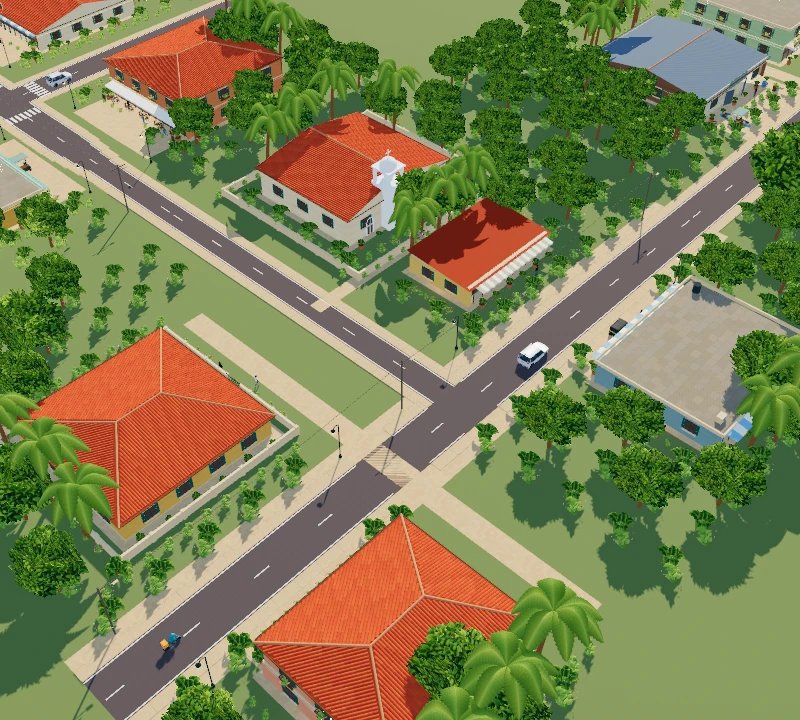
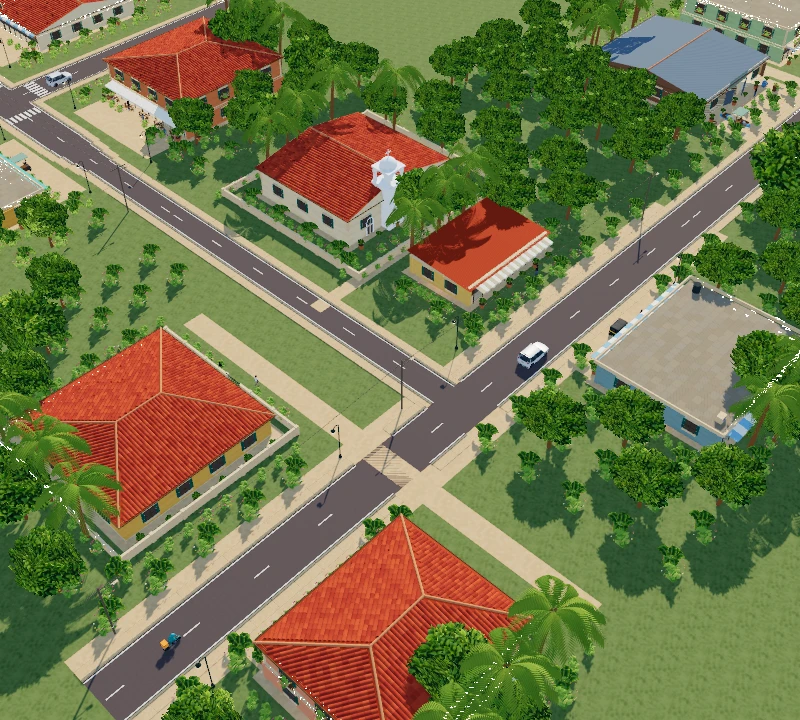
Refine Phase 1 graphics, foliage, materials and screen-space shading

diff --git a/src/scenes.js b/src/scenes.js
@@ -23,6 +23,10 @@ export function createSceneArt(renderer,skyTexture) {
   let seed=127;const rand=()=>{let t=seed+=0x6D2B79F5;t=Math.imul(t^t>>>15,t|1);t^=t+Math.imul(t^t>>>7,t|61);return((t^t>>>14)>>>0)/4294967296};
   for(let i=0;i<42000;i++){ctx.fillStyle=rand()>.5?(kind==='plaster'?'#ffffff04':'#ffffff12'):(kind==='plaster'?'#00000003':'#00000015');ctx.fillRect(rand()*512,rand()*512,.5+rand(),.5+rand())}
   if(kind==='plaster'){for(let i=0;i<45;i++){const x=rand()*512,y=rand()*512,r=12+rand()*56,g=ctx.createRadialGradient(x,y,0,x,y,r);g.addColorStop(0,'#9576490a');g.addColorStop(1,'#95764900');ctx.fillStyle=g;ctx.fillRect(x-r,y-r,r*2,r*2);}}
+  if(kind==='grass'){
+   for(let i=0;i<250;i++){const x=rand()*512,y=rand()*512,r=8+rand()*40,g=ctx.createRadialGradient(x,y,0,x,y,r);g.addColorStop(0,i%3?'#496b3530':'#dac38738');g.addColorStop(1,'#496b3500');ctx.fillStyle=g;ctx.fillRect(x-r,y-r,r*2,r*2);}
+   for(let i=0;i<18000;i++){const x=rand()*512,y=rand()*512;ctx.strokeStyle=i%3?'#456f3426':'#e2db9c38';ctx.beginPath();ctx.moveTo(x,y);ctx.lineTo(x+rand()*2-1,y-2-rand()*3);ctx.stroke();}
+  }
   if(kind==='tile'||kind==='stone'||kind==='paving'){
    const step=kind==='tile'?32:64;ctx.strokeStyle=kind==='tile'?'#56231865':'#785f4c55';ctx.lineWidth=kind==='tile'?2:1;
    for(let y=0;y<512;y+=step){ctx.beginPath();ctx.moveTo(0,y);ctx.lineTo(512,y);ctx.stroke();for(let x=(y/step%2)*step/2;x<512;x+=step){ctx.beginPath();ctx.moveTo(x,y);ctx.lineTo(x,y+step);ctx.stroke();}}
@@ -58,7 +62,7 @@ export function createSceneArt(renderer,skyTexture) {
   let current,origin;
   const vec=p=>new THREE.Vector3(...worldPoint(p,origin));
   function mesh(g,m,p=[0,0,0],rotation=[0,0,0],parent=root){const o=new THREE.Mesh(g,m);o.position.copy(vec(p));o.rotation.set(...rotation);o.castShadow=!m.transparent;o.receiveShadow=true;parent.add(o);return o;}
-  function box(w,d,h,m,p,rotation=0){return mesh(geometry(`box:${w}:${d}:${h}`,()=>w<=2&&d<=2&&h<=2&&Math.min(w,d,h)>.07?new RoundedBoxGeometry(w,h,d,2,Math.min(.025,w*.05,h*.08,d*.05)):new THREE.BoxGeometry(w,h,d)),m,p,[0,rotation,0]);}
+  function box(w,d,h,m,p,rotation=0){return mesh(geometry(`box:${w}:${d}:${h}`,()=>Math.min(w,d,h)>.07?new RoundedBoxGeometry(w,h,d,2,Math.min(.045,w*.05,h*.08,d*.05)):new THREE.BoxGeometry(w,h,d)),m,p,[0,rotation,0]);}
   function beam(a,b,r,m=wood){const aa=vec(a),bb=vec(b),delta=bb.clone().sub(aa);const o=new THREE.Mesh(geometry(`cyl:${r}:${delta.length().toFixed(3)}`,()=>new THREE.CylinderGeometry(r,r,delta.length(),7)),m);o.position.copy(aa.add(bb).multiplyScalar(.5));o.quaternion.setFromUnitVectors(new THREE.Vector3(0,1,0),delta.normalize());o.castShadow=o.receiveShadow=true;root.add(o);return o;}
   function poly(points,m){const g=new THREE.BufferGeometry(),positions=points.map(p=>worldPoint(p,origin)).flat(),normal=new THREE.Vector3(...points[1]).sub(new THREE.Vector3(...points[0])).cross(new THREE.Vector3(...points[2]).sub(new THREE.Vector3(...points[0]))),vertical=Math.abs(normal.z)<Math.max(Math.abs(normal.x),Math.abs(normal.y)),uvScale=m.userData.kind==='paving'?6:3,uv=points.flatMap(p=>vertical?[p[Math.abs(normal.x)>Math.abs(normal.y)?1:0]/uvScale,p[2]/uvScale]:[p[0]/uvScale,p[1]/uvScale]);g.setAttribute('position',new THREE.Float32BufferAttribute(positions,3));g.setAttribute('uv',new THREE.Float32BufferAttribute(uv,2));const idx=[];for(let i=1;i<points.length-1;i++)idx.push(0,i,i+1);g.setIndex(idx);g.computeVertexNormals();const o=new THREE.Mesh(g,m);o.castShadow=!points.every(p=>p[2]===points[0][2]);o.receiveShadow=true;root.add(o);return o;}
   function rect(r,m,z=.01){if(phase===1&&r[3]-r[1]>12){let result;for(let y=r[1];y<r[3];y+=8)result=poly([[r[0],y,z],[r[2],y,z],[r[2],Math.min(y+8,r[3]),z],[r[0],Math.min(y+8,r[3]),z]],m);return result;}return poly([[r[0],r[1],z],[r[2],r[1],z],[r[2],r[3],z],[r[0],r[3],z]],m);}
@@ -99,9 +103,10 @@ export function createSceneArt(renderer,skyTexture) {
    const world=points.map(vec),base=world[0],u=world[1].clone().sub(base).normalize(),normal=world[1].clone().sub(base).cross(world[2].clone().sub(base)).normalize();if(normal.y<0)normal.negate();if(normal.y<.15)return;
    const v=u.clone().cross(normal).normalize(),outline=world.map(p=>{const q=p.clone().sub(base);return[q.dot(u),q.dot(v)]}),r=bounds(outline),tiles=[];
    function contained(x,y){let found=false;for(let i=0,j=outline.length-1;i<outline.length;j=i++){const a=outline[i],b=outline[j];if((a[1]>y)!==(b[1]>y)&&x<(b[0]-a[0])*(y-a[1])/(b[1]-a[1])+a[0])found=!found}return found;}
-   for(let x=r[0]+.15;x<r[2]-.14;x+=.31)for(let y=r[1];y<r[3]-.21;y+=.43)if(contained(x-.13,y+.04)&&contained(x+.13,y+.43)&&contained(x+.13,y+.04)&&contained(x-.13,y+.43))tiles.push(base.clone().addScaledVector(u,x).addScaledVector(v,y).addScaledVector(normal,.014));
+   const tileScale=phase===1?1.35:1;
+   for(let x=r[0]+.15*tileScale;x<r[2]-.14*tileScale;x+=.31*tileScale)for(let y=r[1];y<r[3]-.21*tileScale;y+=.43*tileScale)if(contained(x-.13*tileScale,y+.04)&&contained(x+.13*tileScale,y+.43*tileScale)&&contained(x+.13*tileScale,y+.04)&&contained(x-.13*tileScale,y+.43*tileScale))tiles.push(base.clone().addScaledVector(u,x).addScaledVector(v,y).addScaledVector(normal,.014));
    const g=geometry('barrelTile',()=>{const g=new THREE.BufferGeometry(),p=[],uv=[],idx=[];for(let row=0;row<4;row++)for(let i=0;i<=8;i++){const t=i/8*Math.PI;p.push((i/8-.5)*.32,Math.sin(t)*.075+(row===3?.028:row===2?.008:0),[0,.22,.445,.465][row]);uv.push(i/8,row/3)}for(let row=0;row<3;row++)for(let i=0;i<8;i++){const j=row*9+i;idx.push(j,j+9,j+1,j+1,j+9,j+10)}g.setAttribute('position',new THREE.Float32BufferAttribute(p,3));g.setAttribute('uv',new THREE.Float32BufferAttribute(uv,2));g.setIndex(idx);g.computeVertexNormals();return g;});
-   const inst=new THREE.InstancedMesh(g,mat('#ffffff'),tiles.length),rotation=new THREE.Quaternion().setFromRotationMatrix(new THREE.Matrix4().makeBasis(u,normal,v)),matrix=new THREE.Matrix4();tiles.forEach((p,i)=>{matrix.compose(p,rotation,new THREE.Vector3(1,1,1));inst.setMatrixAt(i,matrix);inst.setColorAt(i,new THREE.Color().setHSL(.035+(i%7)*.0015,.70,.47+(i%11)*.004,THREE.SRGBColorSpace));});inst.castShadow=inst.receiveShadow=true;root.add(inst);
+   const inst=new THREE.InstancedMesh(g,mat('#ffffff'),tiles.length),rotation=new THREE.Quaternion().setFromRotationMatrix(new THREE.Matrix4().makeBasis(u,normal,v)),matrix=new THREE.Matrix4();tiles.forEach((p,i)=>{matrix.compose(p,rotation,new THREE.Vector3(tileScale,tileScale,tileScale));inst.setMatrixAt(i,matrix);const variation=Math.sin(i*127.1+points[0][0]*31.7)*43758.5453,f=variation-Math.floor(variation);inst.setColorAt(i,new THREE.Color().setHSL(.027+f*.012,.65,.40+f*.085,THREE.SRGBColorSpace));});inst.castShadow=inst.receiveShadow=true;root.add(inst);
   }
   function cafeFurniture(x,y){
    box(.9,.72,.085,wood,[x,y,.78]);for(const dx of[-.36,.36])for(const dy of[-.26,.26])beam([x+dx,y+dy,.05],[x+dx,y+dy,.76],.033,wood);
@@ -147,6 +152,10 @@ export function createSceneArt(renderer,skyTexture) {
    }
    if(/lilac/.test(b.walls))for(const dir of ['east','west','north','south'])if(!openDirs.includes(dir)){const f=facade(dir);box(f.length,.25,shopTop,mat(palettes.teal,'plaster'),f.place(0,shopTop/2,.02),f.angle);}
    box(w+.15,d+.15,.18,concrete,[cx,cy,.09]);for(let i=1;i<=b.floors;i++)box(w+.25,d+.25,.12,concrete,[cx,cy,e*i/b.floors]);
+   if(phase===1){
+    box(w+.38,d+.38,.16,concrete,[cx,cy,e-.16]);box(w+.5,d+.5,.09,concrete,[cx,cy,e-.04]);
+    for(const x of[x0+.1,x1-.1])for(const y of[y0+.1,y1-.1])box(.3,.3,Math.max(.2,e-shopTop),concrete,[x,y,shopTop+Math.max(.2,e-shopTop)/2]);
+   }
    roof(b);if(current.key==='p1-scene_04'&&b.id==='B_BAKERY'){box(.8,.14,1.05,concrete,[x0-.05,cy,5],-Math.PI/2);box(.59,.16,.86,darkWood,[x0-.14,cy,5],-Math.PI/2);box(.43,.02,.68,glass,[x0-.24,cy,5],-Math.PI/2);}
    if(b.id==='B_CAFE'){box(w+.25,d+.25,.16,concrete,[cx,cy,waterfrontCafe?3.2:2.65]);box(w+.18,d+.18,.09,concrete,[cx,cy,waterfrontCafe?3.4:2.85]);}
    const faces=[['east',x1,cy,d,-Math.PI/2],['west',x0,cy,d,Math.PI/2],['north',cx,y1,w,0],['south',cx,y0,w,Math.PI]];
@@ -163,7 +172,8 @@ export function createSceneArt(renderer,skyTexture) {
      box(.07,.06,1.4,mat('#594532'),place(along,z,.24),angle);box(ww,.06,.06,mat('#594532'),place(along,z,.24),angle);
      if(phase===1)for(const side of [-1,1]){box(.36,.09,1.5,mat('#39765c'),place(along+side*(ww/2+.2),z,.12),angle);for(let slat=0;slat<18;slat++)box(.35,.1,.04,mat('#315e4d'),place(along+side*(ww/2+.2),z-.66+slat*.075,.15),angle);}
      box(ww+.4,.35,.12,concrete,place(along,z-.85,.14),angle);trim.name='Window surround';
-     if(phase===1&&b.awning&&floor===1){box(ww+.4,.4,.24,wood,place(along,z-.87,.3),angle);const p=place(along,z-.78,.42);shrub(p[0],p[1],.7,true,p[2]);}
+     if(phase===1){box(ww+.5,.3,.12,concrete,place(along,z+.94,.1),angle);for(const side of[-1,1])box(.12,.28,.22,concrete,place(along+side*(ww/2+.1),z-.95,.1),angle);}
+     if(phase===1&&b.awning&&floor===1){box(ww+.4,.4,.24,wood,place(along,z-.87,.3),angle);const p=place(along,z-.78,.42);shrub(p[0],p[1],.95,true,p[2]);}
     }
    }
    const dir=b.direction,ew=dir==='east'||dir==='west',out=dir==='east'||dir==='north'?1:-1,angle=dir==='east'?Math.PI/2:dir==='west'?-Math.PI/2:dir==='north'?Math.PI:0;
@@ -210,7 +220,7 @@ export function createSceneArt(renderer,skyTexture) {
     const a=pts[i],q=pts[(i+1)%pts.length];wall(a,q,b.compound.wall_height_m,concrete,gap);
     if(segmentDistance(gap.position[0],gap.position[1],a,q)<.1){const dx=q[0]-a[0],dy=q[1]-a[1],len=Math.hypot(dx,dy),p=gap.position,at=t=>[p[0]+dx/len*t,p[1]+dy/len*t],left=at(-gap.width/2),right=at(gap.width/2),iron=mat('#39443a');railing(left,right,1.35,iron);for(let t=-gap.width/2;t<=gap.width/2;t+=.13){const q=at(t);beam([...q,0],[...q,1.35],.016,iron);}collide(bounds([left,right]).map((v,i)=>v+(i<2?-.03:.03)),'compound-gate');}
    }}
-   for(const side of[-1,1])for(let i=0;i<9;i++){const px=cx+side*(w/2+2.6),py=y0+1+i*(d-2)/8;if(current.roads.every(r=>roadDistance(r,px,py)>r.width_m/2+1)&&Math.hypot(px-fx,py-fy)>4)shrub(px,py,.65,i%3===0);}
+   for(const side of[-1,1])for(let i=0;i<9;i++){const px=cx+side*(w/2+2.6),py=y0+1+i*(d-2)/8;if(current.roads.every(r=>roadDistance(r,px,py)>r.width_m/2+1.8)&&Math.hypot(px-fx,py-fy)>4)shrub(px,py,phase===1?1.15:.65,i%3===0);}
    for(const p of [[x0-3,y0-3],[x1+3,y1+3]])if(current.roads.every(r=>roadDistance(r,...p)>r.width_m/2+2.5)){plant(p[0],p[1],2.3);shrub(p[0]+1,p[1],1);}
    if(b.bell_tower){const p=b.bell_tower.position,h=b.bell_tower.height_m,white=mat('#fffdf4'),base=h-3;
     const front=facade('south');
@@ -245,6 +255,11 @@ export function createSceneArt(renderer,skyTexture) {
      if(phase===2&&['SCENE_01','SCENE_02'].includes(current.scene.id))for(const side of[-1,1])box(.25,len/steps,.015,mat('#cd9580','paving'),[mx+nx*side*(wa+.18),my+ny*side*(wa+.18),.12],-Math.atan2(dx,dy));
      if(i%3===0)box(.12,2,.012,mat('#eee8cd'),[mx,my,.075],-Math.atan2(dx,dy));
      for(const side of [-1,1]){const x=mx+nx*side*(wa+.7),y=my+ny*side*(wa+.7);box(1.4,len/steps+.01,.1,paving,[x,y,.06],-Math.atan2(dx,dy));box(.12,len/steps,.013,mat('#eee8d8'),[mx+nx*side*(wa-.18),my+ny*side*(wa-.18),.08],-Math.atan2(dx,dy));}
+     if(phase===1)for(const side of[-1,1]){
+      const x=mx+nx*side*(wa+.13),y=my+ny*side*(wa+.13),angle=-Math.atan2(dx,dy);
+      box(.24,len/steps-.035,.18,mat('#e1d6c0','stone'),[x,y,.11],angle);
+      box(.12,len/steps,.014,mat('#6f716b','stone'),[mx+nx*side*(wa-.04),my+ny*side*(wa-.04),.072],angle);
+     }
     }
    }
    for(const spur of r.spurs||[])road({...r,centerline:spur,spurs:[]});
@@ -328,6 +343,8 @@ export function createSceneArt(renderer,skyTexture) {
    if(s.key==='p1-scene_01'){
     wall([49,10],[65,10],1.1,concrete,{position:[61,10],width:2.4});wall([49,10],[49,32],1.1);
     for(const [x,y,h]of[[48,5,10],[48,39,11],[55,38,8],[49,57,10],[45,91,13]]){palm(x,y,h);tree(x-3,y,h-2,3.4);}
+    for(let x=25;x<43;x+=2.8)for(const y of[39.5,43]){shrub(x,y,1.6,true);if(Math.floor(x)%2)plant(x+.7,y+1,1.8);}
+    for(let y=13;y<32;y+=3)shrub(49,y,1.4,true,.6);
     for(const [x,y]of[[65.5,13],[65.5,29],[52,10],[58,10],[65.5,65],[65.5,79]]){plant(x,y,1.7,true);shrub(x,y,1.1,true,.6);}
     for(const [x,y]of[[99,28],[105,72],[117,92]])boat([x,y,-1.2]);
     for(const [x,y]of[[74,12],[74,39],[74,76]])vehicle(auto,[x,y,.07],0,'REFERENCE_AUTO');

diff --git a/src/foliage.js b/src/foliage.js
@@ -23,7 +23,7 @@ export function createFoliage(renderer){
  const barkMap=new THREE.CanvasTexture(trunkCanvas);barkMap.colorSpace=THREE.SRGBColorSpace;barkMap.wrapS=barkMap.wrapT=THREE.RepeatWrapping;
  const bark=new THREE.MeshStandardMaterial({color:'#dab381',map:barkMap,bumpMap:barkMap,bumpScale:.025,roughness:.95});
  const flowerMaterials=['#e96787','#f6c838','#fbf1d2'].map(color=>new THREE.MeshStandardMaterial({color,roughness:.8}));
- const branchGeometry=new THREE.PlaneGeometry(1,1,1,1),petalGeometry=new THREE.SphereGeometry(.035,6,4),coconutGeometry=new THREE.SphereGeometry(.17,9,6);
+ const branchGeometry=new THREE.PlaneGeometry(1,1,1,1),petalGeometry=new THREE.SphereGeometry(.055,6,4),coconutGeometry=new THREE.SphereGeometry(.17,9,6);
  function add(root,g,m){const mesh=new THREE.Mesh(g,m);mesh.castShadow=mesh.receiveShadow=true;root.add(mesh);return mesh}
  function tube(root,points,r){const curve=new THREE.CatmullRomCurve3(points),g=new THREE.TubeGeometry(curve,Math.max(5,points.length*4),r,12,false),uv=g.attributes.uv,p=g.attributes.position;for(let i=0;i<uv.count;i++){const u=uv.getX(i),center=curve.getPointAt(u),scale=1-u*.32;p.setXYZ(i,center.x+(p.getX(i)-center.x)*scale,center.y+(p.getY(i)-center.y)*scale,center.z+(p.getZ(i)-center.z)*scale);uv.setXY(i,uv.getY(i),u)}g.computeVertexNormals();return add(root,g,bark)}
  function surface(length,width,at,material,segments=16){
@@ -38,8 +38,16 @@ export function createFoliage(renderer){
   const point=(t,x)=>[x,Math.sin(t*Math.PI)*(1.1+tilt)-t*t*(2.2-tilt)-Math.abs(x)*.5,-length*t];
   function strip(at,halfWidth){const first=positions.length/3;for(let row=0;row<=6;row++){const t=row/6,p=at(t),w=halfWidth(t);for(const side of[-1,1]){positions.push(p[0],p[1]-Math.abs(w)*.14,p[2]+side*w);uv.push((side+1)/2,t);}if(row<6){const j=first+row*2;indices.push(j,j+2,j+1,j+1,j+2,j+3);}}}
   if(broad){
-   // The Scene 1 reference uses full, drooping fronds with torn leaf margins.
-   for(let row=0;row<=32;row++){const t=row/32,w=width*.5*Math.pow(Math.sin(Math.PI*t),.7)*(row%2?.86:1);for(const side of[-1,0,1]){positions.push(...point(t,side*w));uv.push((side+1)/2,t);}if(row<32)for(let col=0;col<2;col++){const j=row*3+col;indices.push(j,j+3,j+1,j+1,j+3,j+4);}}
+   // Individual folded leaflets leave real gaps in the silhouette and shadows.
+   strip(t=>point(t,0),()=>.022);
+   for(let row=0;row<26;row++)for(const side of[-1,1]){
+    const t=.075+row*.033,span=width*.5*Math.pow(Math.sin(Math.PI*t),.65),first=positions.length/3;
+    for(let segment=0;segment<=3;segment++){
+     const u=segment/3,p=point(t+u*.065,side*span*u),half=.09*Math.pow(Math.sin(Math.PI*u),.65)+.006;
+     for(const edge of[-1,0,1]){positions.push(p[0],p[1]-.3*u*u-Math.abs(edge)*half*.55,p[2]+edge*half);uv.push((edge+1)/2,u);}
+     if(segment<3)for(let col=0;col<2;col++){const j=first+segment*3+col;indices.push(j,j+3,j+1,j+1,j+3,j+4);}
+    }
+   }
   }else{
    strip(t=>point(t,0),()=>.018);
    for(let row=0;row<24;row++)for(const side of[-1,1]){
@@ -51,12 +59,12 @@ export function createFoliage(renderer){
  }
  const palmCanvas=document.createElement('canvas');palmCanvas.width=128;palmCanvas.height=512;const palmContext=palmCanvas.getContext('2d'),gradient=palmContext.createLinearGradient(0,0,128,0);for(const [stop,color]of [[0,'#567c25'],[.35,'#7ea134'],[.48,'#a5ba48'],[.5,'#c4ce66'],[.52,'#8da72f'],[1,'#567620']])gradient.addColorStop(stop,color);palmContext.fillStyle=gradient;palmContext.fillRect(0,0,128,512);const palmMap=new THREE.CanvasTexture(palmCanvas);palmMap.colorSpace=THREE.SRGBColorSpace;
  const palmMaterial=new THREE.MeshStandardMaterial({map:palmMap,vertexColors:true,side:THREE.DoubleSide,roughness:.78});
- const broadPalmMaterial=palmMaterial.clone();broadPalmMaterial.emissive.set('#4b6419');broadPalmMaterial.emissiveIntensity=.18;
+ const broadPalmMaterial=palmMaterial.clone();broadPalmMaterial.roughness=.87;
  function palm(height=10,seed=0,broad=false){
   const root=new THREE.Group(),lean=.6+Math.sin(seed*2.1)*.7,top=new THREE.Vector3(lean,height,.35);
   tube(root,[new THREE.Vector3(),new THREE.Vector3(lean*.15,height*.35,.08),new THREE.Vector3(lean*.5,height*.7,.17),top],.29);
-  for(let i=0;i<10;i++){
-   const angle=i*2.399963+seed*.71,length=3.5+(i%5)*.25,tilt=(i<3?1.1:0)+.55*Math.sin(i*2.1+seed);
+  for(let i=0;i<(broad?13:10);i++){
+   const angle=i*2.399963+seed*.71,length=(broad?3.9:3.5)+(i%5)*.22,tilt=(i<3?1.1:0)+.55*Math.sin(i*2.1+seed)-(broad&&i>9?.8:0);
    const leaf=new THREE.Mesh(palmBlade(length,2.1+(i%3)*.2,tilt,['#fff9df','#e9efcf','#dce8c9'][i%3],broad),broad?broadPalmMaterial:palmMaterial);
    leaf.position.copy(top);leaf.rotation.y=angle;leaf.castShadow=leaf.receiveShadow=true;root.add(leaf);
   }

diff --git a/src/finish.js b/src/finish.js
@@ -5,8 +5,8 @@ import {GTAOPass} from 'three/addons/postprocessing/GTAOPass.js';
 import {OutputPass} from 'three/addons/postprocessing/OutputPass.js';
 
 export function createFinish(renderer,scene,camera,sky){
- const target=new THREE.WebGLRenderTarget(1,1,{type:THREE.HalfFloatType,samples:4}),composer=new EffectComposer(renderer,target);composer.setPixelRatio(1);composer.addPass(new RenderPass(scene,camera));
- const ao=new GTAOPass(scene,camera,512,512,undefined,{radius:.55,thickness:.12,samples:12,distanceFallOff:.8},{samples:8,radius:4});ao.blendIntensity=.75;
+ const target=new THREE.WebGLRenderTarget(1,1,{type:THREE.HalfFloatType,samples:4}),composer=new EffectComposer(renderer,target);composer.setPixelRatio(renderer.getPixelRatio());composer.addPass(new RenderPass(scene,camera));
+ const ao=new GTAOPass(scene,camera,512,512,undefined,{radius:1.2,thickness:.3,samples:12,distanceFallOff:.8},{samples:8,radius:4});ao.blendIntensity=1;
  // Preserve leaf silhouettes in the depth/normal buffer. Solid card rectangles would
  // otherwise cast artificial contact shading around every transparent leaf sprite.
  const white=new THREE.DataTexture(new Uint8Array([255,255,255,255]),1,1);white.needsUpdate=true;
@@ -17,5 +17,7 @@ export function createFinish(renderer,scene,camera,sky){
   if(o.isMesh&&!o.userData.normalHook){const before=o.onBeforeRender;o.onBeforeRender=function(...args){before.apply(this,args);if(args[4]!==ao.normalMaterial)return;const map=this.material.map;map?.updateMatrix();uniforms.leafMap.value=map||white;uniforms.leafCutoff.value=this.material.alphaTest||0;uniforms.leafTransform.value.copy(map?.matrix||new THREE.Matrix3());ao.normalMaterial.uniformsNeedUpdate=true;};o.userData.normalHook=true;}
  });try{renderAO(...args)}finally{hidden.forEach(o=>o.visible=true)}};
  composer.addPass(ao);composer.addPass(new OutputPass());renderer.info.autoReset=false;let width=0,height=0;
- return {resize(w,h){if(w===width&&h===height)return;width=w;height=h;composer.setSize(w,h);const scale=Math.min(1,1024/w);ao.setSize(Math.round(w*scale),Math.round(h*scale));ao.enabled=w>900;},setAOIntensity(v){ao.blendIntensity=v;},render(){renderer.info.reset();composer.render();}};
+ // Keep contact shading on small screens too; cap its buffer independently of
+ // the sharp, full-resolution color pass.
+ return {resize(w,h){if(w===width&&h===height)return;width=w;height=h;composer.setSize(w,h);const scale=Math.min(.75,768/Math.max(w,h));ao.setSize(Math.round(w*scale),Math.round(h*scale));},setAOIntensity(v){ao.blendIntensity=v;},render(){renderer.info.reset();composer.render();}};
 }

diff --git a/src/water.js b/src/water.js
@@ -7,20 +7,23 @@ export function createWater(color,sky){
   vertexShader:`varying vec3 waterPosition;
    void main(){vec4 world=modelMatrix*vec4(position,1.0);waterPosition=world.xyz;gl_Position=projectionMatrix*viewMatrix*world;}`,
   fragmentShader:`uniform vec3 seaColor;uniform sampler2D skyMap;varying vec3 waterPosition;
+   float hash(vec2 p){return fract(sin(dot(p,vec2(127.1,311.7)))*43758.5453);}
+   float noise(vec2 p){vec2 i=floor(p),f=fract(p);f=f*f*(3.0-2.0*f);return mix(mix(hash(i),hash(i+vec2(1.,0.)),f.x),mix(hash(i+vec2(0.,1.)),hash(i+vec2(1.,1.)),f.x),f.y);}
    void main(){
     vec2 p=waterPosition.xz;
-    p+=vec2(sin(p.y*.37),cos(p.x*.29))*1.3;
-    float a=sin(p.x*2.2+p.y*1.4),b=sin(p.x*1.8-p.y*3.1),c=sin(p.x*5.1+p.y*4.4);
-    vec3 normal=normalize(vec3(a*.14+b*.085,1.0,b*.11+c*.07));
+    p+=vec2(noise(p*.27),noise(p*.31+8.))*2.5;
+    float a=sin(p.x*2.2+p.y*1.4+noise(p*.8)*4.),b=sin(p.x*1.8-p.y*3.1),c=sin(p.x*5.1+p.y*4.4);
+    vec3 normal=normalize(vec3(a*.085+b*.06,1.0,b*.075+c*.04));
     vec3 eye=normalize(cameraPosition-waterPosition),reflection=reflect(-eye,normal);
     vec2 uv=vec2(atan(reflection.z,reflection.x)*.15915494+.5,asin(clamp(reflection.y,-1.0,1.0))*.31830989+.5);
     vec3 reflected=texture2D(skyMap,uv).rgb;
-    float fresnel=.03+.16*pow(1.0-max(dot(normal,eye),0.0),3.0);
+    float fresnel=.015+.1*pow(1.0-max(dot(normal,eye),0.0),5.0);
     float depth=clamp((waterPosition.x-90.0)/65.0,0.0,1.0);
-    vec3 base=mix(vec3(.006,.35,.40),seaColor,depth)*(.95+.13*a+.08*b);
+    float patches=noise(p*.55)*.65+noise(p*1.4)*.35;
+    vec3 base=mix(vec3(.006,.28,.32),seaColor,depth*.55+.2)*(.8+patches*.55+.045*a+.025*b);
     vec3 halfVector=normalize(eye+normalize(vec3(60.0,55.0,-35.0)));
-    float sparkle=pow(max(dot(normal,halfVector),0.0),90.0);
-    gl_FragColor=vec4(mix(base,reflected,fresnel)+vec3(1.0,.96,.77)*sparkle*.7,1.0);
+    float sparkle=pow(max(dot(normal,halfVector),0.0),220.0)*smoothstep(.7,.88,noise(p*5.0));
+    gl_FragColor=vec4(mix(base,reflected,fresnel)+vec3(1.0,.96,.77)*sparkle*.18,1.0);
     #include <tonemapping_fragment>
     #include <colorspace_fragment>
    }`,

diff --git a/src/main.js b/src/main.js
@@ -14,7 +14,7 @@ async function read(path){const r=await fetch(asset(path));if(!r.ok)throw Error(
 async function start(){
  const manifest=await read('scenes/manifest.json'),viewSizes=await read('scenes/view-sizes.json'),specs=await Promise.all(manifest.map(async m=>normalize(calibrateWaterfront(await read(m.spec)),m.key)));
  const renderer=new THREE.WebGLRenderer({canvas:$('world'),antialias:true,powerPreference:'high-performance'});
- renderer.setPixelRatio(Math.min(devicePixelRatio,1.5));renderer.outputColorSpace=THREE.SRGBColorSpace;renderer.toneMapping=THREE.ACESFilmicToneMapping;renderer.toneMappingExposure=1.25;renderer.shadowMap.enabled=true;renderer.shadowMap.autoUpdate=false;renderer.shadowMap.type=THREE.PCFSoftShadowMap;
+ renderer.setPixelRatio(Math.min(devicePixelRatio,2));renderer.outputColorSpace=THREE.SRGBColorSpace;renderer.toneMapping=THREE.ACESFilmicToneMapping;renderer.toneMappingExposure=1.15;renderer.shadowMap.enabled=true;renderer.shadowMap.autoUpdate=false;renderer.shadowMap.type=THREE.PCFSoftShadowMap;
  const scene=new THREE.Scene();scene.background=new THREE.Color('#a9d4ee');scene.fog=new THREE.Fog('#d0e5ec',260,650);
  const camera=new THREE.PerspectiveCamera(56,1,.1,1500),controls=new OrbitControls(camera,renderer.domElement);controls.enableDamping=true;controls.maxPolarAngle=Math.PI*.48;controls.minDistance=3;controls.maxDistance=500;controls.enabled=false;
  const skyTexture=await new THREE.TextureLoader().loadAsync(asset('textures/sky-cumulus.webp'));skyTexture.colorSpace=THREE.SRGBColorSpace;skyTexture.mapping=THREE.EquirectangularReflectionMapping;scene.environment=skyTexture;scene.environmentIntensity=.35;const sky=new THREE.Mesh(new THREE.SphereGeometry(900,48,24),new THREE.MeshBasicMaterial({map:skyTexture,side:THREE.BackSide,depthWrite:false,fog:false,toneMapped:false}));sky.material.onBeforeCompile=shader=>{shader.fragmentShader=shader.fragmentShader.replace('#include <map_fragment>',`#include <map_fragment>

diff --git a/docs/scene-reconstruction.md b/docs/scene-reconstruction.md
@@ -15,13 +15,13 @@ Geometry is derived from the JSON rather than an image used as a skybox or groun
 
 V2 changes Phase 1 to an elevated oblique miniature-city view. Its build guide prioritizes unchanged metre-scale roads, footprints and seams; camera positions are approximate starting points. The Phase 1 runtime therefore no longer moves or compresses the cafe, bakery, pier, shore, buildings or connections, and no longer bends the waterfront. The 8-metre waterfront road, full promenade and supplied entrances are retained. An elevated follow camera (40 degrees, or 48 degrees for the heritage side view) keeps roofs, traffic and water visible while the rider stays at its original physical scale. Other reference presets use the revised archive cameras. Phase 2 retains its urban calibration.
 
-Scene 1 includes two cafe storefront faces, warm framed glazing, shutter window planters, the teal bakery display, potted promenade planting, broad drooping palm crowns, shoreline boulders and water plants. Traffic, chairs and people are positioned around the restored source building lots. The pier retains its specified footprint and single-pitch canopy. The independent images can disagree about canopy materials and facade details; source geometry is authoritative. Windows, foliage and material maps remain authored approximations.
+Scene 1 includes two cafe storefront faces, warm framed glazing, shutter window planters, the teal bakery display, potted promenade planting, drooping palm crowns with individual folded leaflets, shoreline boulders and water plants. Traffic, chairs and people are positioned around the restored source building lots. The pier retains its specified footprint and single-pitch canopy. The independent images can disagree about canopy materials and facade details; source geometry is authoritative. Windows, foliage and material maps remain authored approximations.
 
 The user requested identical appearance. That acceptance target has **not** been met or certified by this implementation. Exact pixel agreement would require resolving conflicting views and additional asset/material and camera calibration work. Automated checks establish functional and spatial properties, not visual identity.
 
 Gameplay is a small delivery loop with collection, customer delivery, countdown and rewards. Rivals, combat, interiors, dismounting/pier walking and weather variants are not implemented. Vehicles are fixed scene props with box collision rather than a general traffic physics engine. Delivery bays on the mainland keep pier deliveries off the pier. Buildings, walls and water constrain the rider. Vehicle props remain visible in all camera modes; pedestrian motion is stopped in reference camera modes. Open edges outside the specified zone are blocked by the playable bounds.
 
-Rendering defaults to 30 FPS, caps pixel density at 1.5, uses a 2048-pixel filtered directional shadow map with an explicitly updated street-sized shadow projection, pauses simulation/rendering in hidden tabs, skips redraws of static reference cameras, uses GPU fences to avoid queued frames and reports a view ready only after its GPU fence completes, and merges fixed geometry by material, shadow flag and thirty-metre spatial cells so distant geometry can be culled. Shadow maps refresh when a scene/camera changes, the light region moves by a metre, or every eighth rendered frame; static scenery does not need a full shadow redraw on every frame. Northeast directional sunlight, cool sky fill, warm reflected ground light and ACES tone mapping restore the reference’s stronger sun/shade contrast. Desktop rendering adds alpha-aware ambient occlusion; bloom is omitted to avoid the roof glare seen during earlier comparisons. Small viewports omit ambient occlusion. Banana leaves and tree branches use curved alpha-cut surfaces. Scene 1 palm fronds use full serrated surfaces; the other palms have individually modeled leaflets and shrubs have folded modeled leaves. A warm limewash map supplies wall color and bump detail; smoother asphalt adds diffuse grain; roofs use instanced barrel tiles and storefronts use framed glazing, lamps and shelving. Palm trunks taper with irregular bark rings. Small lamp halos are excluded from the ambient-occlusion depth pass to avoid solid rectangle artifacts. Pavement uses a larger, low-contrast tile atlas. A planted, modeled headland with cottages extends beyond the northern playable waterfront bounds; low-rise neighborhood continuation stays outside the four specified playable blocks. Generated café, bakery, restaurant and grocery interior textures sit behind the modeled windows, and a generated cumulus sky provides environment lighting. These are individual material assets rather than a reference image pasted behind the game. The sea shader uses world-space wave normals, sky reflections and sunlight highlights. The reference gallery preserves each supplied image’s aspect ratio and exports actual browser screenshots using `scripts/export-captures.mjs` after a successful sixteen-view check. The game autorickshaw uses round front lamps, a dark nose and a seated driver while the model review retains the original front styling. Fixed vehicle parts are merged while the movable bike retains its parent transform and the rider retains its skinned rig. Physical phone heat and sustained device frame rates have not been measured.
+Rendering defaults to 30 FPS, caps pixel density at 2 across the renderer and color composer, uses a 2048-pixel filtered directional shadow map with an explicitly updated street-sized shadow projection, pauses simulation/rendering in hidden tabs, skips redraws of static reference cameras, uses GPU fences to avoid queued frames and reports a view ready only after its GPU fence completes, and merges fixed geometry by material, shadow flag and thirty-metre spatial cells so distant geometry can be culled. Shadow maps refresh when a scene/camera changes, the light region moves by a metre, or every eighth rendered frame; static scenery does not need a full shadow redraw on every frame. Northeast directional sunlight, cool sky fill, warm reflected ground light and ACES tone mapping restore the reference’s stronger sun/shade contrast. Alpha-aware ambient occlusion runs on small and large viewports. Its buffer is capped at 75% of CSS resolution and 768 pixels on the longest side, independently of the full-resolution color pass. Bloom is omitted. Banana leaves and tree branches use curved alpha-cut surfaces. Phase 1 palms use individual folded leaflets, a central spine and layered drooping fronds; shrubs have folded modeled leaves. A warm limewash map supplies wall color and bump detail; smoother asphalt adds diffuse grain; roofs use instanced barrel tiles and storefronts use framed glazing, lamps and shelving. Palm trunks taper with irregular bark rings. Small lamp halos are excluded from the ambient-occlusion depth pass to avoid solid rectangle artifacts. Pavement uses a larger, low-contrast tile atlas. A planted, modeled headland with cottages extends beyond the northern playable waterfront bounds; low-rise neighborhood continuation stays outside the four specified playable blocks. Generated café, bakery, restaurant and grocery interior textures sit behind the modeled windows, and a generated cumulus sky provides environment lighting. These are individual material assets rather than a reference image pasted behind the game. The sea shader uses world-space wave normals, sky reflections and sunlight highlights. The reference gallery preserves each supplied image’s aspect ratio and exports actual browser screenshots using `scripts/export-captures.mjs` after a successful sixteen-view check. The game autorickshaw uses round front lamps, a dark nose and a seated driver while the model review retains the original front styling. Fixed vehicle parts are merged while the movable bike retains its parent transform and the rider retains its skinned rig. Physical phone heat and sustained device frame rates have not been measured.
 
 The latest player-view refinement uses warmer cream wall colors and corrected outward roof-tile and vehicle-panel normals. The hatchback has a taller, body-colored cabin, vertical rear lamps and a yellow registration plate; car and auto collision bounds include their instance scale. Café storefronts include modeled glazing and lanterns, and menu boards use tilted wooden A-frames with readable chalk panels. The older extra cottages inside playable lots have been removed so they do not obscure source buildings. These changes improve visible details but do not establish an identical match to the supplied illustrations.
 
@@ -34,3 +34,9 @@ Phase 1 completion pass
 All four V2 scenes share frontage paving and grouped planting that avoids source roads, bays, gates and the chapel approach. Tall decorative trees stay back from the streets. The fishing-net seawall is derived from its source intervals, retaining both platform gaps; pedestrian-only promenades are blocked to the motorcycle while the mainland pier bay stays accessible. Workshop/shed loading doors, the workshop apron, chapel approach and arched chapel facade are modeled. Market crossings and lamps follow the original y45 junction, replacing the old calibrated y17 positions. Player cameras have separate profiles for the two waterfront blocks, the east–west heritage street and the market.
 
 `npm run check:phase1` renders all 30 Phase 1 presets, captures eight master/player images, verifies source building dimensions, and floods the actual collider map from the waterfront spawn to check connected access to all 11 pickup bays, four customer destinations and all scene spawns. It also exercises drive/pause, reference opacity, pointer controls, portrait layout and both model review pages. The test supports `CAPTURES_ONLY=1` for refreshing captures and route checks after visual corrections without repeating interaction checks. Player captures verify that the helmet, cargo box and wheels project inside the frame. The comparison exporter accepts the eight Phase 1 captures and retains the older Phase 2 images.
+
+## Graphics refinement after V2 publication
+
+The follow-up pass restores contact shading below 900 CSS pixels and native high-density color rendering up to 2×. Phase 1 gains larger clay barrel tiles with irregular terracotta colors, lightly beveled building edges, layered cornices, window lintels and brackets, fuller flower boxes, segmented raised curbs and narrow gutters. The waterfront cafe and home gardens gain layered planting without changing the source road, bay or building bounds. Palm leaflets cast real silhouette shadows. Grass has multiscale surface variation, and the sea uses irregular wave perturbations and color patches instead of regular sine stripes. Exposure is reduced from 1.25 to 1.15 to retain material color in direct sunlight.
+
+Visual review uses actual Scene 1 browser captures, followed by all eight Phase 1 master/player captures, source-dimension and connected-route checks. These improve the authored scene; they do not certify an exact match to the supplied illustration. High-density rendering and always-on occlusion still require real-device performance evaluation.

diff --git a/docs/ART_DIRECTION.md b/docs/ART_DIRECTION.md
@@ -8,6 +8,6 @@ Keep the original metre-scale footprints, road widths, entrances, delivery bays 
 
 The four scenes share modeled storefront glazing, striped awnings, shutter windows, planters, rounded vehicles and people. Scene details include the delivery pier, paired cantilever fishing nets, chapel/bell tower, workshop loading yard, fruit stalls, clothing display and residential balconies. Geometry stays fixed across camera presets.
 
-The renderer uses ACES tone mapping, a warm directional sun, environment/hemisphere fill, filtered shadows and alpha-aware GTAO on larger viewports. Static scenery is batched by material and spatial cell, while vehicles and people retain their actor transforms. Source images are displayed only in the labelled comparison overlay and gallery. Actual renders come from Chromium/WebGL captures.
+The renderer uses ACES tone mapping, a warm directional sun, environment/hemisphere fill, filtered shadows and alpha-aware GTAO at every viewport size, with an independently capped occlusion buffer. Static scenery is batched by material and spatial cell, while vehicles and people retain their actor transforms. Source images are displayed only in the labelled comparison overlay and gallery. Actual renders come from Chromium/WebGL captures.
 
 Graphics remains the project gate. Functional checks establish source geometry, connected access, camera rendering and controls; they do not certify pixel identity or physical-phone performance. The independently generated V2 views are not calibrated images of a shared original mesh. Current authored materials and models remain visibly different from those illustrations.
